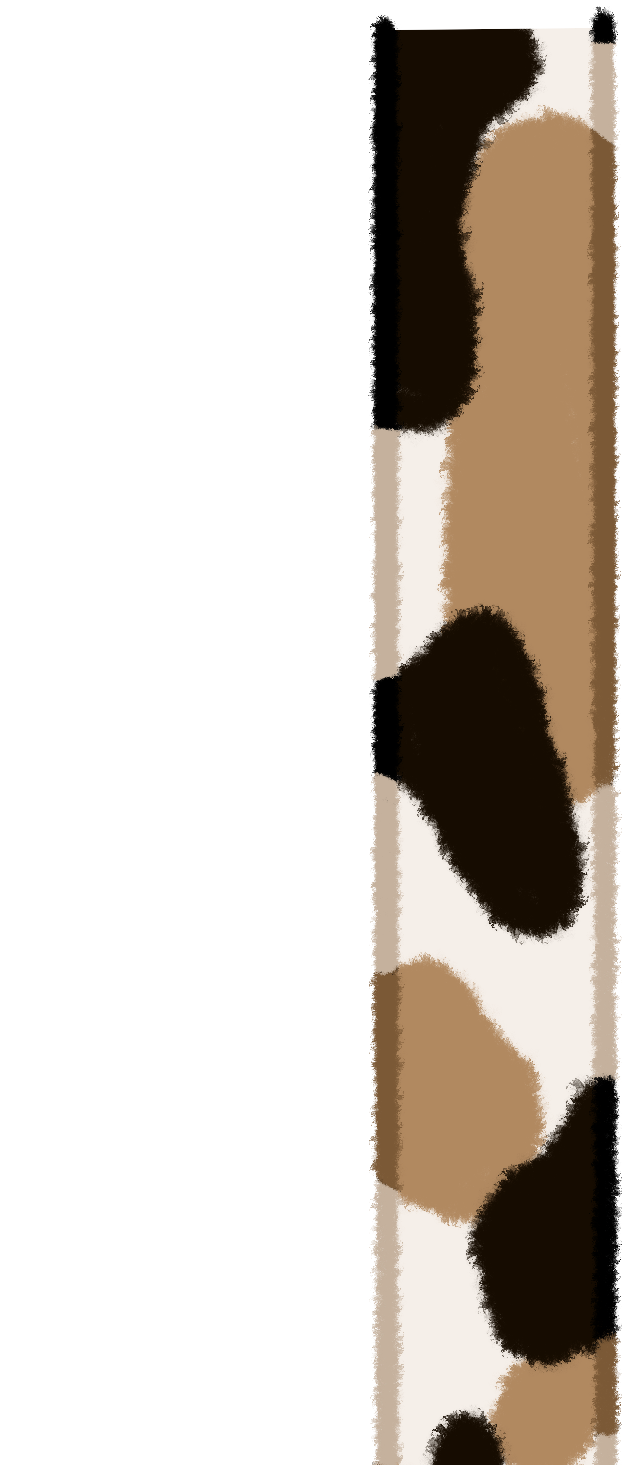
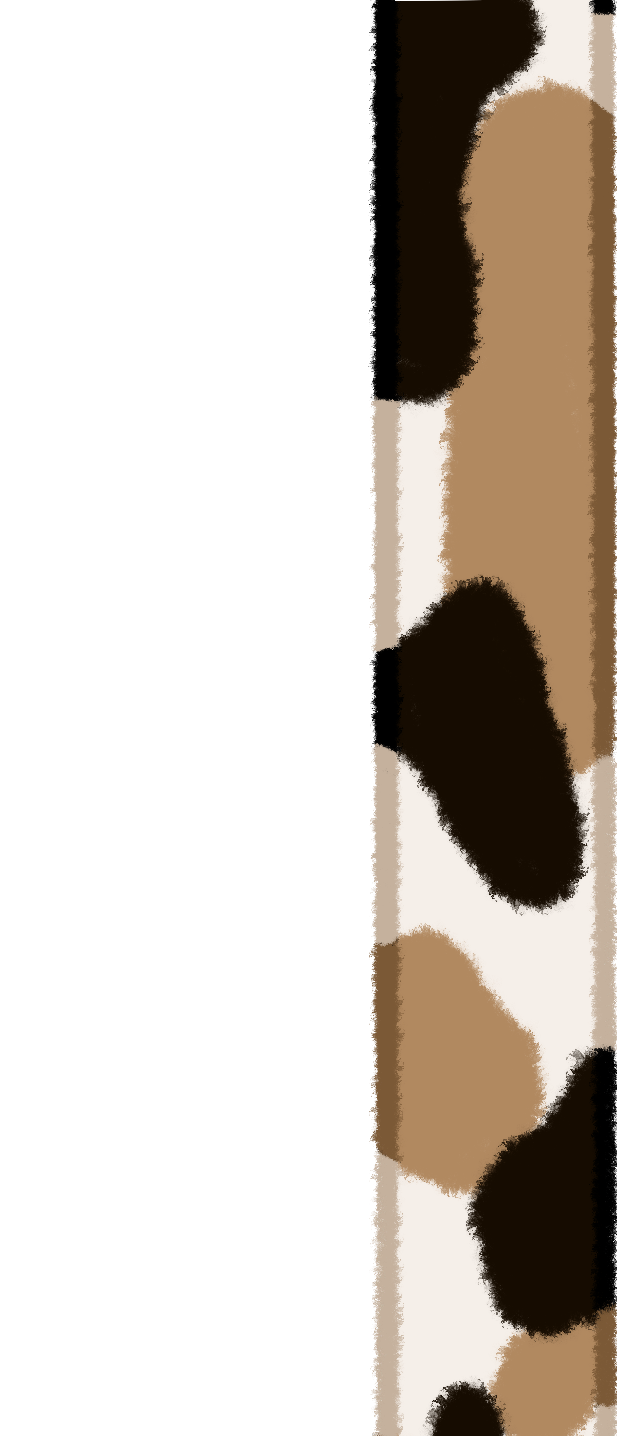
Added claw collisions

Changed region(s): [[0.5851, 0.0, 1.0, 1.0], [0.7699, 0.7967, 0.8314, 0.8273], [0.6775, 0.9805, 0.7083, 1.0]]

diff --git a/src/main.rs b/src/main.rs
@@ -5,6 +5,7 @@ fn main() {
     .add_plugins(DefaultPlugins)
     .add_systems(Startup, setup)
     .add_systems(Update, move_claw)
+    .add_systems(Update, claw_collisions)
     .run();
 }
 
@@ -30,8 +31,8 @@ fn setup(
 ){
     let text_handle_top = asset_server.load("background/topMachine.png");
     let text_handle_bottom = asset_server.load("background/bottomMachine.png");
-    let text_handle_right = asset_server.load("background/rightMachine");
-    let text_handle_left = asset_server.load("background/leftMachine");
+    let text_handle_right = asset_server.load("background/rightMachine.png");
+    let text_handle_left = asset_server.load("background/leftMachine.png");
     let text_handle_shadow_balls = asset_server.load("background/shadowBall.png");
     let text_handle_balls_group = asset_server.load("background/ballsGroup.png");
 
@@ -47,7 +48,7 @@ fn setup(
         texture: text_handle_top,
         transform: Transform {
             scale: Vec3::splat(0.2), 
-            translation: Vec3::new(0.0, 0.0, 1.0),
+            translation: Vec3::new(0.0, 280.0, 3.0),
             ..default()
         },
         ..default()
@@ -59,7 +60,7 @@ fn setup(
         texture: text_handle_shadow_balls,
         transform: Transform {
             scale: Vec3::splat(0.2), 
-            translation: Vec3::new(0.0, 0.0, -2.0),
+            translation: Vec3::new(0.0, -45.0, -2.0),
             ..default()
         },
         ..default()
@@ -70,7 +71,7 @@ fn setup(
         texture: text_handle_balls_group,
         transform: Transform {
             scale: Vec3::splat(0.2), 
-            translation: Vec3::new(0.0, 0.0, 1.0),
+            translation: Vec3::new(0.0, -45.0, 1.0),
             ..default()
         },
         ..default()
@@ -81,7 +82,7 @@ fn setup(
         texture: text_handle_left,
         transform: Transform {
             scale: Vec3::splat(0.2), 
-            translation: Vec3::new(0.0, 0.0, 1.0),
+            translation: Vec3::new(-245.0, 35.0, 2.0),
             ..default()
         },
         ..default()
@@ -92,7 +93,7 @@ fn setup(
         texture: text_handle_right,
         transform: Transform {
             scale: Vec3::splat(0.2), 
-            translation: Vec3::new(0.0, 0.0, 1.0),
+            translation: Vec3::new(247.0, 30.0, 2.0),
             ..default()
         },
         ..default()
@@ -104,7 +105,7 @@ fn setup(
         texture: text_handle_bottom,
         transform: Transform {
             scale: Vec3::splat(0.2), 
-            translation: Vec3::new(0.0, -200.0, 1.0),
+            translation: Vec3::new(0.0, -220.0, 1.0),
             ..default()
         },
         ..default()
@@ -115,7 +116,7 @@ fn setup(
         texture: text_handle_claw_closed,
         transform: Transform {
             scale: Vec3::splat(0.2), 
-            translation: Vec3::new(0.0, 0.0, -1.0),
+            translation: Vec3::new(0.0, 200.0, -1.0),
             ..default()
         },
         ..default()
@@ -149,11 +150,31 @@ fn move_claw(mut query: Query<&mut Transform, With<Claw>>,
         tr.translation.y += speed * time.delta_seconds();
     }
 }
-/* 
-pub clawColisions(
-    mut claw_query: Query<(Entity, &Transform), With<Claw>>,
-    mut top_query: Query<&Transform, With<TopMachine>>,
-    mut sides_query: Query<&Transform, With<BottomMachine>>,
-    mut balls_query: Query<&Transform, with<BallsGroup>>
-)
-*/
+
+pub fn claw_collisions(
+    mut claw_query: Query<(Entity, &mut Transform), With<Claw>>,
+){
+    if let Ok((claw_entity, mut claw_transform)) = claw_query.get_single_mut(){
+        let x_max = 150.0;
+        let x_min = -150.0;
+        let y_max = 200.0;
+        let y_min = 60.0;
+
+        let mut translation = claw_transform.translation;
+
+        if translation.x < x_min{
+            translation.x = x_min
+        } else if translation.x > x_max{
+            translation.x = x_max;
+        }
+
+        if translation.y < y_min{
+            translation.y = y_min;
+        } else if translation.y > y_max
+        {
+            translation.y = y_max;
+        }
+
+        claw_transform.translation = translation;
+    }
+}
